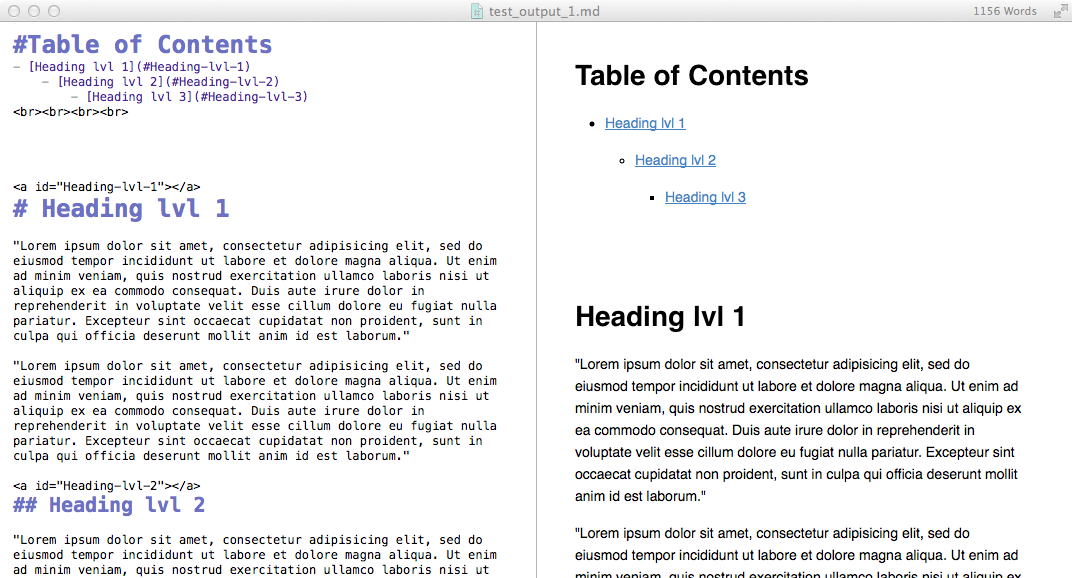
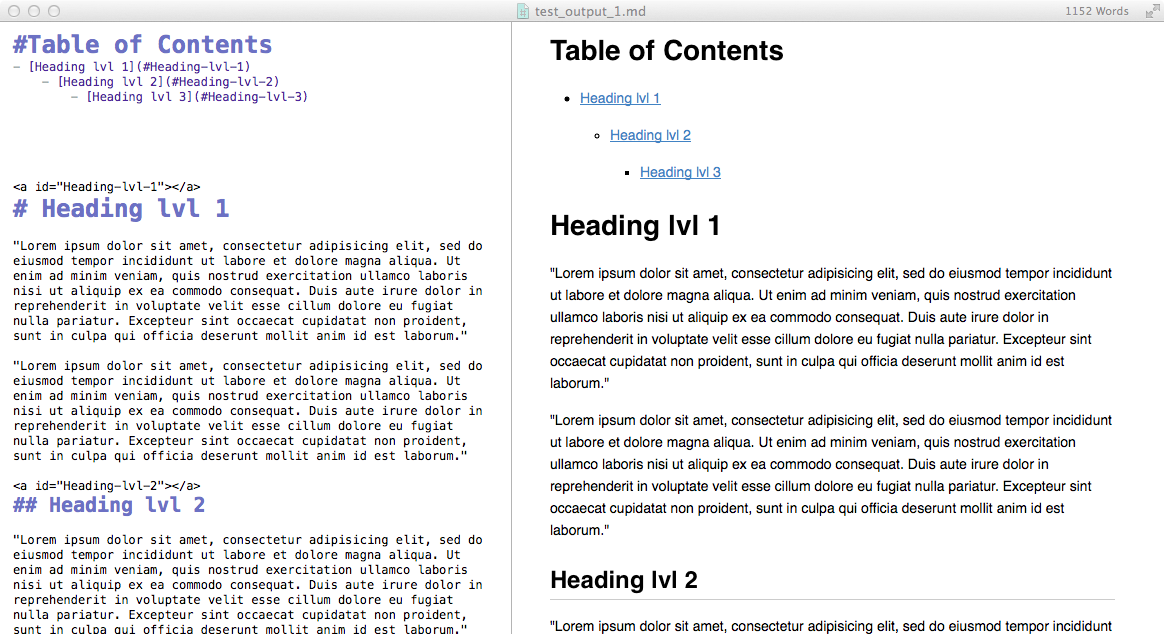
optional command to add vertical space

Changed region(s): [[0.0, 0.2803, 0.9543, 1.0], [0.0, 0.0, 1.0, 0.3737]]

diff --git a/markdown-toclify.py b/markdown-toclify.py
@@ -45,6 +45,8 @@
 
 import argparse
 
+__version__ = '1.0.0'
+
 def dashify_headline(line):
     """
     Takes a header line from a Markdown document and
@@ -149,7 +151,7 @@ def add_backtotop(toc_headlines, body):
     return toc_processed, processed
 
 
-def write_markdown(out_file, toc_headlines, body):
+def write_markdown(out_file, toc_headlines, body, spacer=0):
     """
     Writes the Markdown output file with the table of
     contents.
@@ -161,11 +163,15 @@ def write_markdown(out_file, toc_headlines, body):
         body: contents of the Markdown file including
             ID-anchor tags as returned by the
             tag_and_collect function.
+        spacer: Adds vertical space after the table
+            of contents. Height in pixels.
 
     """
     with open(out_file, 'w') as out:
         for line in toc_headlines:
             out.write(line + '\n')
+        if spacer:
+            out.write('\n<div style="height:%spx;"></div>\n' %(spacer))
         out.write(4 * '\n')
         for line in body:
             out.write(line + '\n')
@@ -201,13 +207,14 @@ Updates for this script will be available at https://github.com/rasbt/markdown-t
 parser.add_argument('InputFile', help='Path to the Markdown input file.')
 parser.add_argument('OutputFile', help='Path to the Markdown output file.')
 parser.add_argument('-b', '--back_to_top', action='store_true', help='Adds [back to top] links.')
-
+parser.add_argument('-s', '--spacer', default=0, type=int, metavar=('pixels'),
+                help='Adds horizontal space (in pixels) after the table of contents')
+parser.add_argument('-v', '--version', action='version', version='%s' %__version__)
 
 args = parser.parse_args()
 
 in_filename = args.InputFile
 out_filename = args.OutputFile
-
 
 raw_contents = get_lines(in_filename)
 tagged_contents, raw_headlines = tag_and_collect(raw_contents)
@@ -216,4 +223,4 @@ processed_headlines = create_toc(raw_headlines)
 if args.back_to_top:
     processed_headlines, tagged_contents = add_backtotop(processed_headlines, tagged_contents)
 
-write_markdown(out_filename, processed_headlines, tagged_contents)
+write_markdown(out_filename, processed_headlines, tagged_contents, args.spacer)

diff --git a/README.md b/README.md
@@ -19,12 +19,23 @@ The usage is quite simple, you just need to provide an Markdown-formatted input 
 
 	./markdown-toclify.py input.md output.md
 	
-You can also add additional internal back-to-top links via the optional `-b` tag.
+<br>
+
+#### Optional arguments
+	
+You can also add additional internal back-to-top links via the optional `-b` tag.- 
 
 	./markdown-toclify.py input.md output.md -b
 	
+
+<br> 
+Use the `-s` (`--spacer`) flag if you want to add additional vertical space (in pixels) after the table of contents.
 	
-Examples for the in- and outputs are shown in the section below.
+	./markdown-toclify.py input.md output.md -s 100
+
+<br>
+
+**Examples for the in- and outputs are shown in the section below.**
 
 
 <br>
@@ -43,12 +54,24 @@ Examples for the in- and outputs are shown in the section below.
 
 ## Output file
 
+Command:
+
+	./markdown-toclify.py input.md output.md
+
+<br>
+
 ![Output file 1](./images/test_output_1.png)
 
 
 <br>
 <br>
 
-## Output file with back-to-top links
+## Output file with back-to-top links and vertical space
+
+Command:
+
+	./markdown-toclify.py input.md output.md -b -s 100
+	
+<br>
 
 ![Output file 1](./images/test_output_2.png)

diff --git a/example_markdown/test_output_2.md b/example_markdown/test_output_2.md
@@ -4,7 +4,9 @@
 - [Heading lvl 1](#Heading-lvl-1)
     - [Heading lvl 2](#Heading-lvl-2)
         - [Heading lvl 3](#Heading-lvl-3)
-<br><br><br><br>
+
+<div style="height:100px;"></div>
+
 
 
 

diff --git a/example_markdown/test_output_1.md b/example_markdown/test_output_1.md
@@ -2,7 +2,7 @@
 - [Heading lvl 1](#Heading-lvl-1)
     - [Heading lvl 2](#Heading-lvl-2)
         - [Heading lvl 3](#Heading-lvl-3)
-<br><br><br><br>
+
 
 
 
